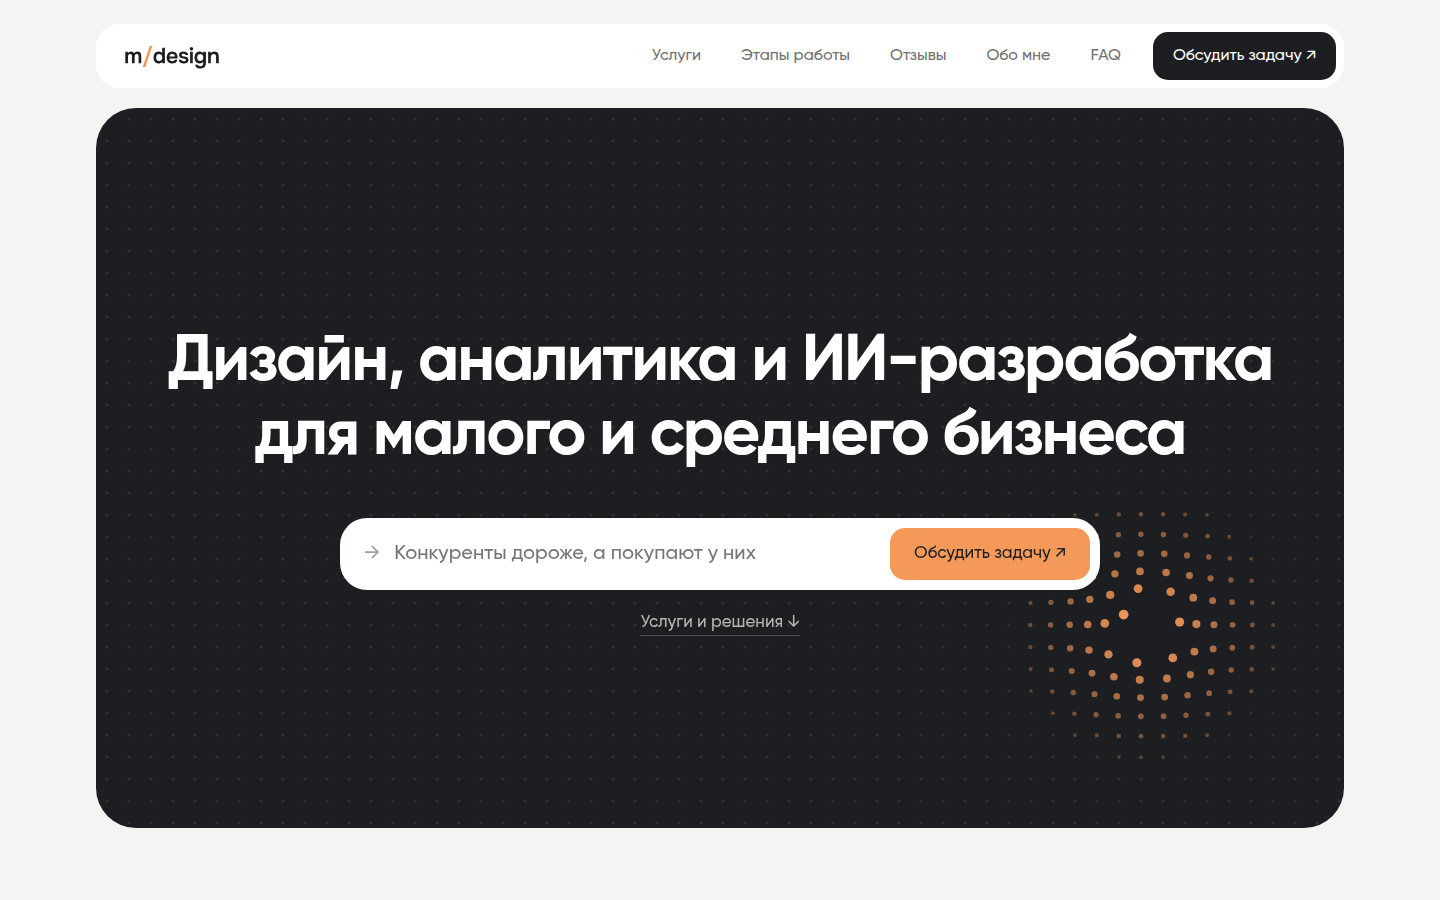
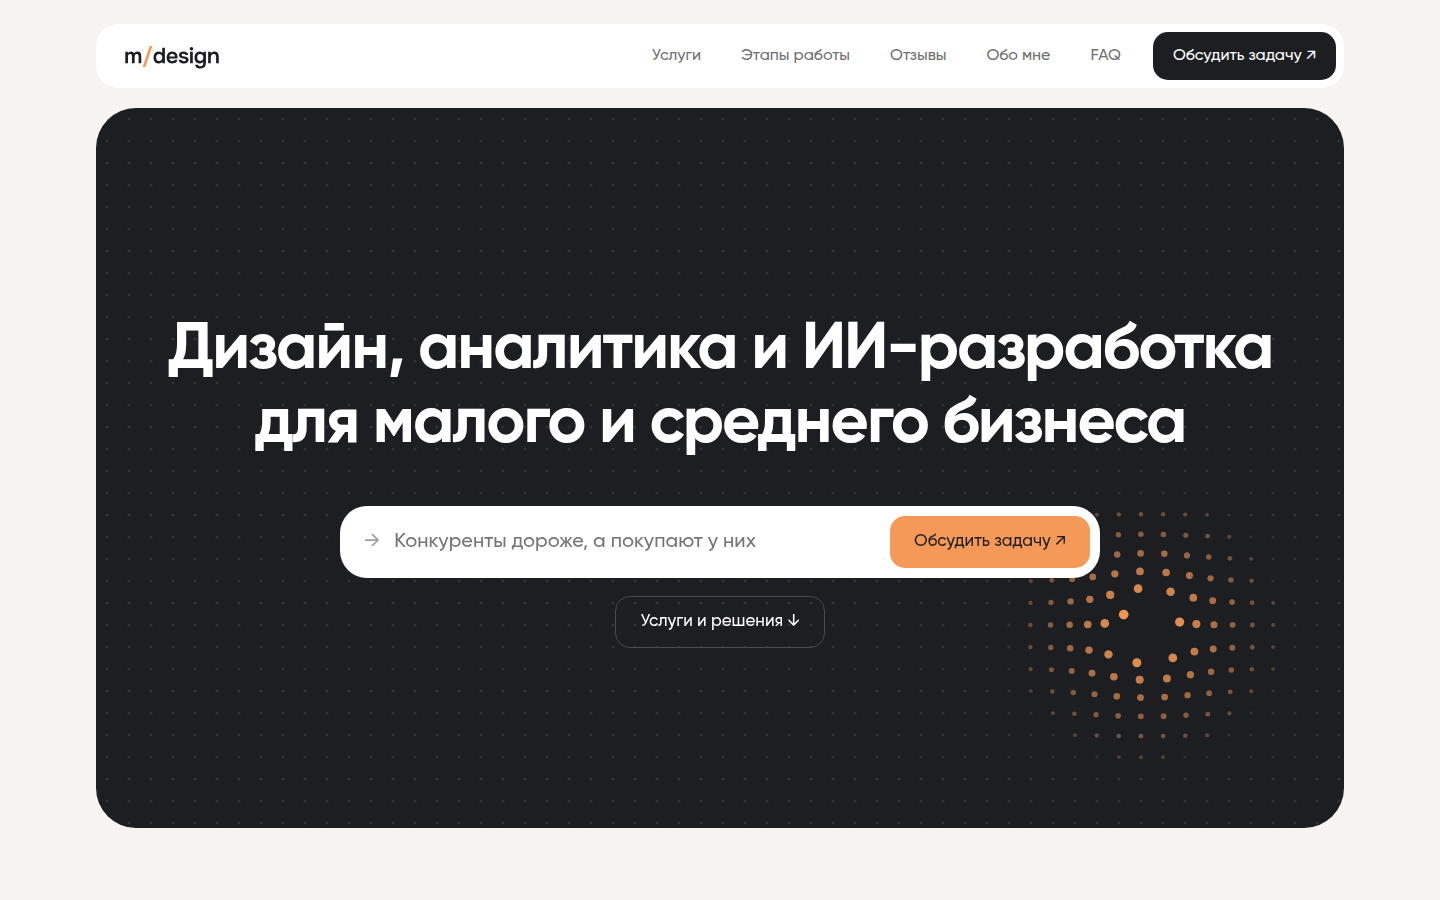
Hero вариант 2: заметная кнопка «Услуги и решения», мобильная версия с реальной нижней панелью
Claude-Session: https://claude.ai/code/session_01Ea7sNnJutX3PZfqWbVPvng

Changed region(s): [[0.0938, 0.3422, 0.9062, 0.5289], [0.2188, 0.56, 0.7812, 0.7156]]

diff --git a/docs/site/hero-mockup/matrix-center.html b/docs/site/hero-mockup/matrix-center.html
@@ -43,7 +43,10 @@ h1 { font-size: 60px; }
 .v2 h1 { font-size: 66px; letter-spacing: -2px; margin-bottom: 44px; white-space: nowrap; }
 .bar { display: flex; align-items: center; gap: 14px; width: 760px; max-width: 100%; background: #fff; border-radius: 27px; padding: 10px 10px 10px 24px; font: 500 20px Gilroy; text-align: left; }
 .bar input { flex: 1; border: 0; outline: 0; font: inherit; background: none; min-width: 0; }
-.link { margin-top: 22px; color: #B8B6B2; font: 500 17px Gilroy; border-bottom: 1px solid #4A4B50; padding-bottom: 2px; }
+.link { margin-top: 18px; display: inline-flex; align-items: center; height: 52px; padding: 0 24px; border-radius: 15px; border: 1.5px solid #4A4B50; color: #fff; font: 500 17px Gilroy; }
+.only-mob { display: none; }
+/* мобильный «хром» сайта: логотип сверху без панели, нижняя панель Меню/Обсудить, ярлык подарка */
+.dock, .gift { display: none; }
 /* 3 — разнесено по высоте */
 .v3 .content { justify-content: space-between; padding: 44px 40px 40px; }
 .v3 h1 { margin-top: 0; }
@@ -54,7 +57,17 @@ h1 { font-size: 60px; }
   .v2 h1 { font-size: 34px; white-space: normal; }
   .bar { flex-wrap: wrap; padding: 10px; font-size: 17px; }
   .bar input { padding: 10px 8px; }
-  .bar .btn { width: 100%; justify-content: center; }
+  .only-pc { display: none !important; } .only-mob { display: grid; }
+  .bar { flex-wrap: nowrap; padding: 8px 8px 8px 16px; }
+  .link { width: 100%; justify-content: center; height: 50px; }
+  header { background: none; margin: 0; padding: 26px 24px 0; height: auto; }
+  header img { height: 26px; }
+  .v2 .cap { height: calc(100svh - 74px - 104px); min-height: 520px; margin: 14px 12px 0; }
+  .dock { display: flex; position: fixed; left: 12px; right: 12px; bottom: 12px; height: 68px; padding: 7px; gap: 7px; border-radius: 30px; background: #1D1E22; z-index: 30; }
+  .dock span { display: flex; align-items: center; justify-content: center; border-radius: 23px; font: 500 17px Gilroy; }
+  .dock .m { width: 112px; background: #2C2D32; color: #fff; } .dock .d { flex: 1; background: #fff; color: #1D1E22; }
+  .gift { display: flex; position: fixed; right: 12px; bottom: 92px; z-index: 30; align-items: center; gap: 10px; height: 48px; padding: 0 16px; border-radius: 15px; background: #1D1E22; color: #fff; font: 500 15px Gilroy; }
+  .gift b { background: #F59958; color: #1D1E22; border-radius: 999px; padding: 1px 8px; font: 500 13px Gilroy; }
   .v3 .content { padding: 22px 18px 18px; }
   .cap { align-items: stretch; }
   .acts { width: 100%; }
@@ -67,6 +80,7 @@ h1 { font-size: 60px; }
   <canvas id="cv"></canvas>
   <div class="content" id="content"></div>
 </section>
+<div class="dock"><span class="m">☰ Меню</span><span class="d">Обсудить задачу ↗</span></div><div class="gift"><span style="color:#F59958">🎁</span>Ваш подарок <b>4</b></div>
 <script>
 const V = new URLSearchParams(location.search).get('v') || '1'
 document.body.classList.add('v' + V)
@@ -76,7 +90,7 @@ const inp = (extra = '') => `<div class="input"><span class="ar">→</span><inpu
 const acts = '<div class="acts"><span class="btn acc">Услуги и решения ↗</span><span class="btn">Обсудить задачу ↗</span></div>'
 document.getElementById('content').innerHTML = {
   '1': pill + h1 + inp() + acts,
-  '2': h1 + `<div class="bar"><span class="ar">→</span><input placeholder="Конкуренты дороже, а покупают у них"><span class="btn acc">Обсудить задачу ↗</span></div><a class="link">Услуги и решения ↓</a>`,
+  '2': h1 + `<div class="bar"><span class="ar">→</span><input placeholder="Конкуренты дороже, а покупают у них"><span class="btn acc only-pc">Обсудить задачу ↗</span><span class="go only-mob">↑</span></div><a class="link">Услуги и решения ↓</a>`,
   '3': `<div class="top">${pill}</div><div class="mid">${h1}${inp()}</div><div class="bottom">${acts}</div>`,
 }[V]
 </script>
